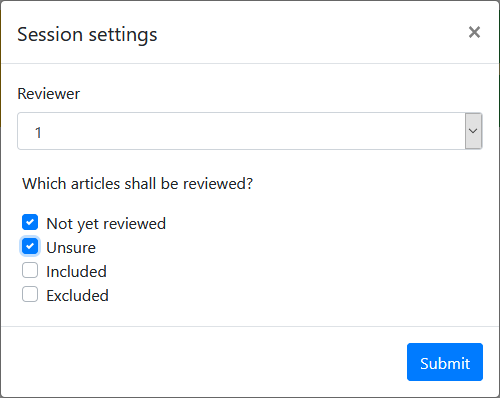
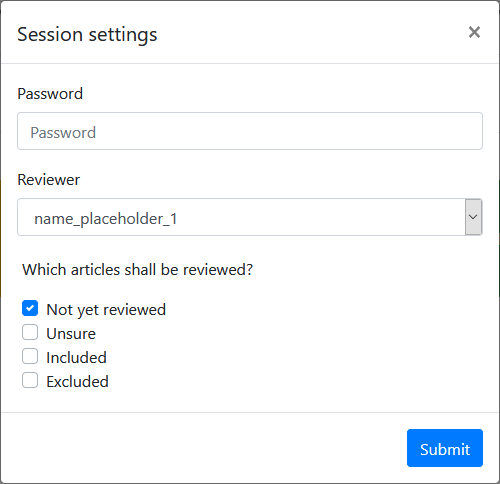
added password authentication and ability to assign descriptive reviewer names

diff --git a/SLRtool/static/js/core.js b/SLRtool/static/js/core.js
@@ -52,8 +52,8 @@ function loadArticle(data){
 
     // check the previous decision on the paper given the current reviewer
     let decision;
-    //console.log("reviewer:" + currentReviewer);
-    switch (currentReviewer) {
+    console.log("reviewer: " + currentReviewerId);
+    switch (currentReviewerId) {
         case '1':
             decision = data.decision_r_1
             $("#reviewerRemark").val(data.remark_r_1);
@@ -67,7 +67,7 @@ function loadArticle(data){
             $("#reviewerRemark").val(data.remark_r_3);
             break;
     }
-    //console.log("data decision:" + decision);
+    console.log("data decision: " + decision);
     switch (decision) {
         case '1':
             console.log('the decision is already set to 1')
@@ -144,9 +144,12 @@ function decision(decision) {
 }
 
 function setSettings() {
-    currentReviewer = $("#selectReviewer").val();
+    psw = $("#inputPassword").val()
+    console.log("psw: " + inputPassword)
+    currentReviewerId = $("#selectReviewer").val();
+    currentReviewerName = $(`#selectReviewer option[value="${currentReviewerId}"]`).text();
     // set text in html visible to user
-    $("#reviewer").text(currentReviewer);
+    $("#reviewer").text(currentReviewerName);
     //console.log("Current reviewer " + currentReviewer)
     // get article filter settings for session
     let articleFilterList = [];
@@ -157,7 +160,9 @@ function setSettings() {
             articleFilterList.push(articleFilter);
         }
     });
-    var payload = {"reviewer": currentReviewer,
+    var payload = {
+                    "password": psw,
+                    "reviewer": currentReviewerId,
                     "article_filter_list": articleFilterList}
     $.ajax({
         type: "POST",

diff --git a/SLRtool/templates/app.html b/SLRtool/templates/app.html
@@ -29,7 +29,7 @@
     <script src="/static/js/core.js"></script>
     <script>
         var loadedData;
-        var currentReviewer;
+        var currentReviewerName;
         console.log("here")
         window.onload = function() {
              // show modal
@@ -52,11 +52,15 @@
                 </div>
                 <div class="modal-body">
                     <div class="form-group">
+                        <label for="inputPassword">Password</label>
+                        <input type="password" class="form-control" id="inputPassword" placeholder="Password">
+                    </div>
+                    <div class="form-group">
                         <label for="selectReviewer">Reviewer</label>
                         <select class="form-control" id="selectReviewer">
-                          <option>1</option>
-                          <option>2</option>
-                          <option>3</option>
+                          <option value="1">name_placeholder_1</option>
+                          <option value="2">name_placeholder_2</option>
+                          <option value="3">name_placeholder_3</option>
                         </select>
                     </div>
                     <!-- Search filter checkboxes -->

diff --git a/SLRtool/routes.py b/SLRtool/routes.py
@@ -1,7 +1,20 @@
-import simplejson as json
 from . import app, db
+from functools import wraps
 from .models import ScopusEntry
+from settings import LOGIN_PASSWORD
 from flask import render_template, request, jsonify, make_response, url_for, redirect, session
+
+def password_checked(a_func):
+    @wraps(a_func)
+    def inner():
+        if 'passwd_verified' in session.keys():
+            if session['passwd_verified'] == True:
+                return a_func()
+            else:
+                return ('not verified', 401)
+        else:
+            return ('not verified', 401)
+    return inner
 
 def get_article(eid=False):
     '''
@@ -47,7 +60,6 @@ def get_article(eid=False):
                 limit(1). \
                 all() # same as list(query)/list(article)
 
-
     else:
         article = db.session.query(ScopusEntry). \
             filter(ScopusEntry.eid == eid). \
@@ -73,7 +85,7 @@ def start():
     session_items = session.items()
     keys = session.keys()
     to_del = []
-    not_to_del = ['csrf_token', 'filters', 'reviewer']
+    not_to_del = ['csrf_token', 'filters', 'reviewer', 'passwd_verified']
     for key in keys:
         if key not in not_to_del:
             to_del.append(key)
@@ -83,6 +95,7 @@ def start():
     return ('', 204)
 
 @app.route('/history', methods=['POST'])
+@password_checked
 def old_article():
     data = request.json
     requested_eid = data['requested_eid']
@@ -94,6 +107,7 @@ def old_article():
     return resp
 
 @app.route('/next', methods=['GET'])
+@password_checked
 def next_article():
     data = get_article()
     if data is not None:
@@ -122,6 +136,7 @@ def next_article():
         return ('no data', 204)
 
 @app.route('/previous', methods=['GET'])
+@password_checked
 def previous_article():
     session_items = session.items()
     if 'previous_eids' in session.keys():
@@ -146,6 +161,7 @@ def previous_article():
         return ('', 204)
 
 @app.route('/decision', methods=["POST"])
+@password_checked
 def decision_made():
     '''
     This function will be implemented in the Flask SLRtoolGAE of the SLRtool WebApp which will:
@@ -181,10 +197,15 @@ def decision_made():
 
 @app.route('/settings', methods=["POST"])
 def set_settings():
+    session['passwd_verified'] = False
     settings = request.json
+    input_password = settings['password']
+    # check password
+    if input_password != LOGIN_PASSWORD:
+        return ('false password', 401)
+    session['passwd_verified'] = True
     session['reviewer'] = settings['reviewer']
     # create new decision column for this reviewer if not existant
-
     filters = settings['article_filter_list']
     try:
         filters[filters.index('notreviewed_checkbox')] = 'not reviewed'

diff --git a/config.py b/config.py
@@ -1,5 +1,6 @@
 import os
 import sqlalchemy
+
 from sshtunnel import SSHTunnelForwarder
 
 basedir = os.path.abspath(os.path.dirname(__file__))
@@ -9,33 +10,33 @@ class Config(object):
     config for running the server LOCALLY but still accessing the remote Google Cloud Postgresql database
     IMPORTANT: TURN OFF ANY VPN SINCE IT IS IP ACCESS RESTRICTED!
     '''
-    DATABASE_LOCATION = 'remote' #local
+    from settings import DATABASE_LOCATION
 
     if DATABASE_LOCATION == 'local':
-        with open('database.txt', 'rt', encoding='utf-8') as f:
+        from settings import LOCAL_DATABASE_CONNECTION
+        with open(LOCAL_DATABASE_CONNECTION, 'rt', encoding='utf-8') as f:
             SQLALCHEMY_DATABASE_URI = f.readline()
     elif DATABASE_LOCATION == 'remote':
         # create ssh tunnel
-        from database_remote import remote_ip
-        from database_remote import remote_user
-        from database_remote import bind_port
-        from database_remote import remote_db_name
-        from database_remote import remote_db_user
-        from database_remote import remote_db_psw
-        from database_remote import remote_private_key
-        from database_remote import remote_private_key_psw
+        from settings import REMOTE_IP
+        from settings import REMOTE_USER
+        from settings import BIND_PORT
+        from settings import REMOTE_DB_NAME
+        from settings import REMOTE_DB_USER
+        from settings import REMOTE_DB_PSW
+        from settings import REMOTE_PRIVATE_KEY
+        from settings import REMOTE_PRIVATE_KEY_PSW
 
         server = SSHTunnelForwarder(
-            (remote_ip, 22),
-            ssh_username=remote_user,
-            ssh_pkey=remote_private_key,
-            ssh_private_key_password=remote_private_key_psw,
-            remote_bind_address=('127.0.0.1', bind_port)
+            (REMOTE_IP, 22),
+            ssh_username=REMOTE_USER,
+            ssh_pkey=REMOTE_PRIVATE_KEY,
+            ssh_private_key_password=REMOTE_PRIVATE_KEY_PSW,
+            remote_bind_address=('127.0.0.1', BIND_PORT)
         )
         server.start()
         local_port = str(server.local_bind_port)
-        SQLALCHEMY_DATABASE_URI = f'postgresql://{remote_db_user}:{remote_db_psw}@{"127.0.0.1"}:{local_port}/{remote_db_name}'
-
+        SQLALCHEMY_DATABASE_URI = f'postgresql://{REMOTE_DB_USER}:{REMOTE_DB_PSW}@{"127.0.0.1"}:{local_port}/{REMOTE_DB_NAME}'
 
     SQLALCHEMY_TRACK_MODIFICATIONS = False
     SECRET_KEY = os.environ.get('SECRET_KEY') or '17cÄ£_^AE'   #34kö$_^AC

diff --git a/settings.py b/settings.py
@@ -1,0 +1,13 @@
+LOGIN_PASSWORD = '1234'
+# remote or local via http/https
+DATABASE_LOCATION = 'local' #remote
+LOCAL_DATABASE_CONNECTION = 'database.txt' # change string accordingly
+# remote via SSH tunnel
+REMOTE_IP = '<INSERT>'
+REMOTE_USER = '<INSERT>' #'postgres'
+REMOTE_PRIVATE_KEY = '~/User/.ssh/id_rsa'
+REMOTE_PRIVATE_KEY_PSW = '<INSERT>' #'postgres'
+BIND_PORT = 5432
+REMOTE_DB_NAME = '<INSERT>'
+REMOTE_DB_USER = '<INSERT>'
+REMOTE_DB_PSW = '<INSERT>'

diff --git a/main.py b/main.py
@@ -14,4 +14,7 @@ Run RESTful API Server.
 
 
 if __name__ == '__main__':
-    app.run() #host='0.0.0.0', port=4000
+    app.debug = True
+    app.run() #host='0.0.0.0', port=5000
+    # if the app shall be visible in the local network use the following
+    # app.run(host='0.0.0.0', port=5000)

diff --git a/README.md b/README.md
@@ -15,6 +15,7 @@
 
 ### Setup:
 1. Initialise all required python packages by using the `requirements.yml` file to create an identical, compatible anaconda environemnt with the following command: `conda env create --file requirements.yml` (potentially additional packages according to your target db have to be also installed.)
-2. Adapt the `database_dummy.txt` so that it points towards the database where your inital paper pool (from e.g. ScopusAPI) is located (local or remote) and rename it `database.txt`.
+2. Change `settings.py` to own usage, specifically adapt the `database_dummy.txt` so that it points towards the database which holds your paper pool (from e.g. ScopusAPI). There are option for local or remote connections. Rename it `database.txt`.
 3. Adapt the database structure according to the template defined in `models.py` or vis versa. Once defined any DMS can be used.
-4. Webapp runs by default on *localhost:5000*, can be changed in `main.py` to own liking.
+4. Assign descriptive reviewer names by searching for `name_placeholder_` in `app.html`
+5. Webapp runs by default on *localhost:5000*, can be changed in `main.py` to own liking. If the service shall be available to the local network change `app.run()` to `app.run(host='0.0.0.0', port=5000)` in the `main.py` file (caution in exposing your webapp to untrusted networks!)
